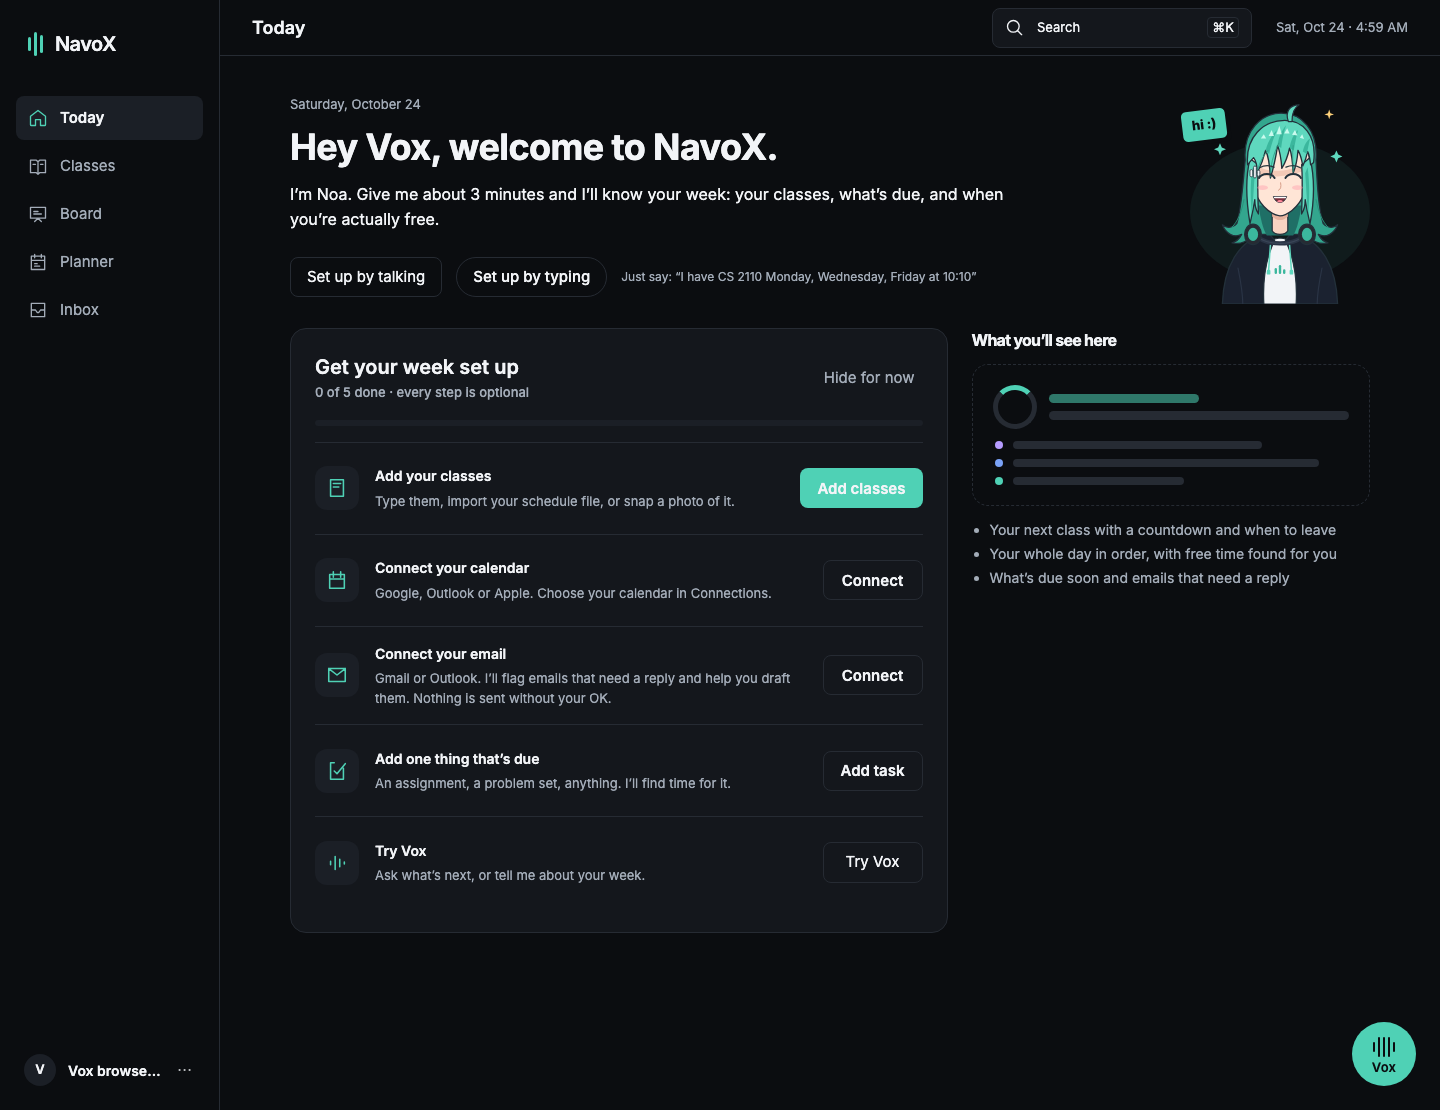
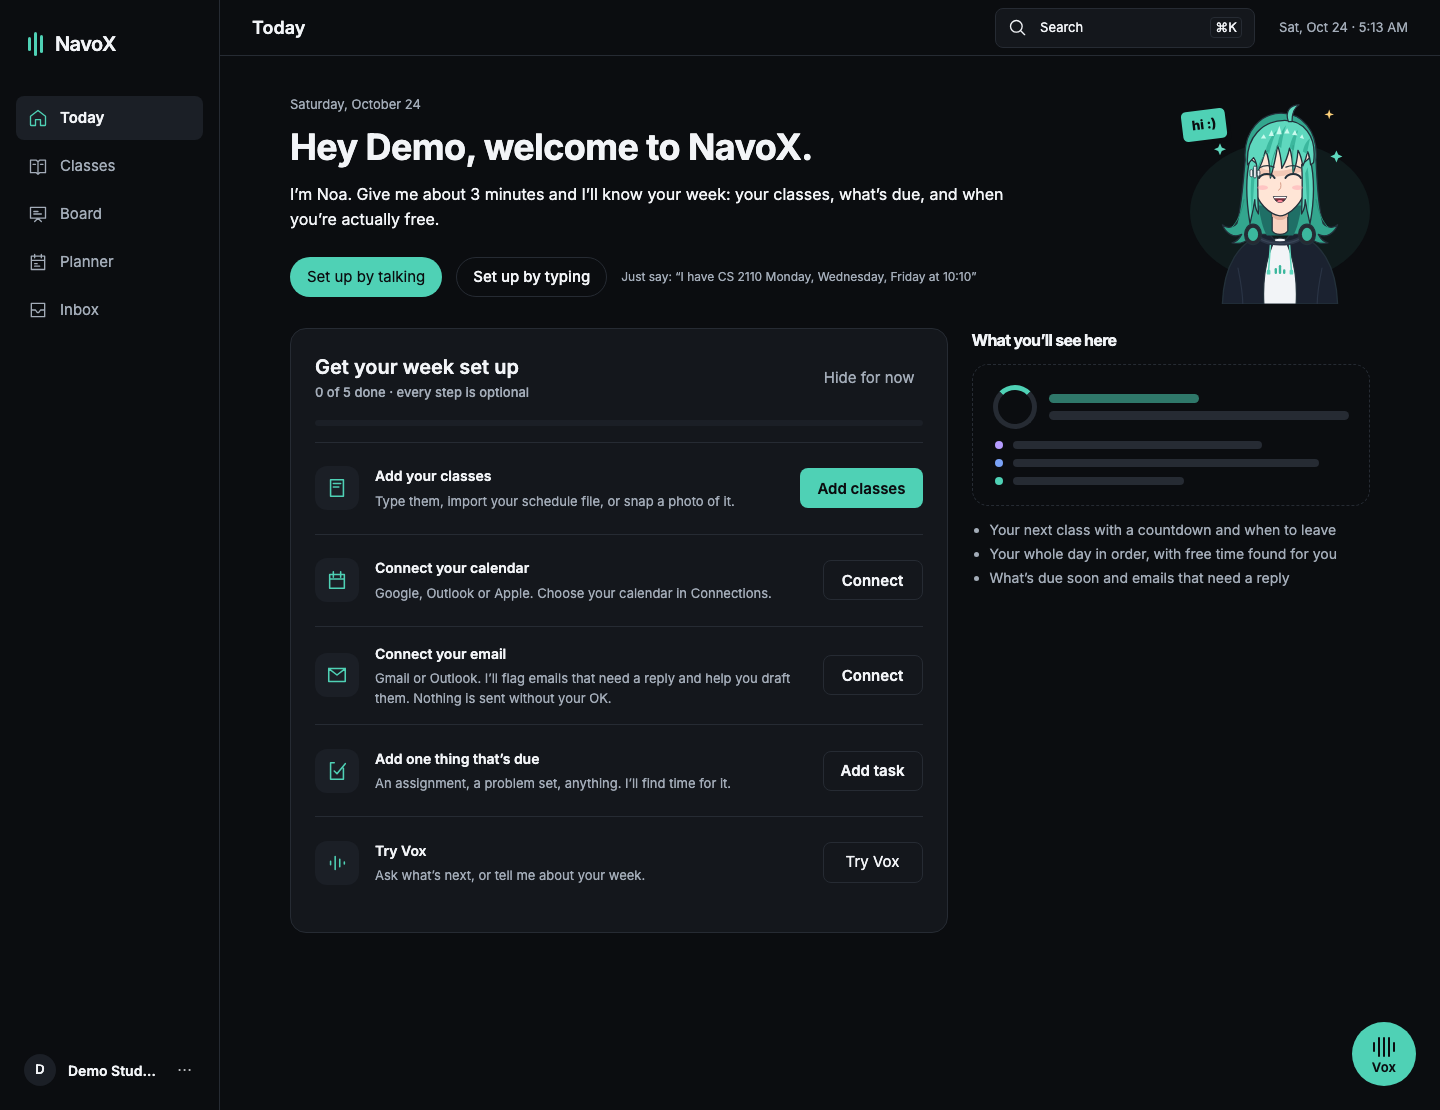
Align current-block actions and record redesign acceptance gaps

diff --git a/docs/product/evidence/m2-redesign/compare.html b/docs/product/evidence/m2-redesign/compare.html
@@ -1,0 +1,1 @@
+<!doctype html><html lang="en"><meta charset="utf-8"><meta name="viewport" content="width=device-width,initial-scale=1"><title>NavoX M2 reference review</title><style>body{background:#0b0d10;color:#f2f4f7;font:15px/1.5 system-ui;margin:24px}h1{font-size:24px}h2{font-size:18px}.pair{display:grid;grid-template-columns:1fr 1fr;gap:16px;align-items:start}figure{margin:0}figcaption{color:#a3acb8;margin-bottom:8px}img{width:100%;border:1px solid #262b33}p{max-width:900px}a{color:#4fd1b5}@media(max-width:700px){.pair{grid-template-columns:1fr}}</style><h1>NavoX Milestone 2 — reference review</h1><p>Source: the user’s 24 October 2026, 19-page redesign spec. These are progress comparisons, not final acceptance. Real persisted demo data differs from the illustrative names/times. The Today clock is controlled for the screenshot; physical-phone checks remain pending.</p><h2>First-time Today</h2><div class="pair"><figure><figcaption>Supplied reference, page 5</figcaption><img src="reference-welcome.png" alt="Supplied first-time Today reference"></figure><figure><figcaption>Test build, fresh private demo account</figcaption><img src="welcome-desktop-dark.png" alt="Implemented first-time Today"></figure></div><h2>Today with a saved schedule</h2><p>Still pending: best-free-window suggestions, Vox request chip, streak chip, complete late-night/alarm composition and all downstream workflows.</p><div class="pair"><figure><figcaption>Supplied reference, page 4</figcaption><img src="reference-today.png" alt="Supplied full Today reference"></figure><figure><figcaption>Test build, 9 AM New York, retained sample data</figcaption><img src="today-09am-desktop-dark.png" alt="Implemented Today at 9 AM New York"></figure></div><h2>Recorded call navigation</h2><p>375px mobile browser emulation, real rented voice provider, synthetic microphone. No audio track. Same call and conversation across Classes, Planner and Today; clean hangup. No login credentials were recorded.</p><video controls preload="metadata" style="max-width:375px;width:100%" src="vox-navigation-mobile-emulation.webm"></video></html>

diff --git a/apps/web/src/components/today-home.tsx b/apps/web/src/components/today-home.tsx
@@ -496,7 +496,8 @@ function TodayHomeAccount({
                                     : ""}
                             </span>
                           </Link>
-                          {row.study?.status === "planned" &&
+                          {current &&
+                            row.study?.status === "planned" &&
                             !data?.plan?.needs_review &&
                             (() => {
                               const block = row.study;

diff --git a/docs/product/m2-redesign-20261024.md b/docs/product/m2-redesign-20261024.md
@@ -18,7 +18,8 @@ approvals and usage accounting. Picovoice approval remains external.
 - [x] Use shared frontend date/clock/greeting helper; keep UTC storage internally.
 - [x] Update shell/account state after Settings/Classes timezone save without revoking Vox.
 - [x] Unit checks: NY 3 AM/noon/11 PM, West Coast, greeting boundaries, both DST transitions.
-- [ ] Live cross-page verification: header, Today, Classes, Planner, Inbox, Vox, notifications.
+- [x] Live cross-page timezone verification: header, Today, Classes, Planner, Inbox and Vox.
+- [ ] Live notification delivery verification (quiet-hour regression tests passed).
 - [ ] No student-facing UTC/server-time labels (Settings may name an explicitly selected zone).
 - [ ] Alarm and routine UI use this same saved timezone when added.
 Implementation: canonical User.timezone already feeds timetable, planning, Vox
@@ -37,8 +38,8 @@ not existing event instants. Browser-detected timezone is never passed off as sa
 - [ ] Desktop controls 40px, phone targets at least 44px; report spacing changes.
 - [ ] Sidebar 220px: logo, Today, Classes, Board, Planner, Inbox count;
       bottom name/school menu with Connections, Settings, Help, Sign out.
-- [ ] Header 56px: title, Search/Cmd-K, local date/time.
-- [ ] Persistent Vox 64px, Cmd/Ctrl-J, 112px bottom clearance across routes.
+- [x] Header 56px: title, Search/Cmd-K, local date/time.
+- [x] Persistent Vox 64px, Cmd/Ctrl-J, 112px bottom clearance across routes.
 - [ ] Under 768px: profile left, Inbox right; Today/Classes/raised Vox/Board/Planner bottom nav.
 Implementation: update shared UI tokens/shell before individual pages; preserve root call provider.
 
@@ -54,7 +55,7 @@ Implementation: update shared UI tokens/shell before individual pages; preserve 
 - [ ] First time: happy Noa, welcome, setup by talking or typing.
 - [ ] Five real completion steps: classes, calendar, email, one due item, try Vox;
       progress/icons/help/actions, green completion, Hide for now, preview column.
-- [ ] No empty-account “Done for today”.
+- [x] No empty-account “Done for today”.
 - [ ] 00:00–04:59: #05060A/lavender, sleepy Noa, Still up?, truthful remaining sleep,
       Set alarm/Wind down Vox, first class, approve/keep suggested move, due chips.
 - [ ] After 21:00: alarm/first-class card; approved early-exam alarm proposal.
@@ -131,8 +132,19 @@ never claim the browser can reliably ring while closed.
 - [ ] Retained, clearly synthetic QA account: classes/study/shift/tasks/two emails.
 - [ ] Today at 9 AM/3 PM/3 AM side-by-side with references.
 - [ ] Every normal/first-time page side-by-side; every page 375px and light theme.
-- [ ] Browser-emulation recording of Vox staying connected through navigation.
+- [x] Browser-emulation recording of Vox staying connected through navigation.
 - [ ] User physical-phone recording and acceptance (waiting on user testing).
 - [ ] New-account five-step flow verified from a fresh account.
 - [ ] Student tests/usage targets marked waiting on real usage, never passed prematurely.
 - [ ] Report any remaining spec difference; ask before building conflicting requirements.
+
+## Current implementation checkpoint
+Test release 8c90643: shared time, revised shell, original Noa illustration,
+five-step welcome, real next-up countdown/leave-by, timeline and deadline/goal
+presentation. Retained synthetic QA data has 3 recurring classes, 1 shift,
+3 tasks, accepted study blocks and 3 goals/check-ins. Two email fixtures remain
+pending; no fake email connection or external message was created.
+
+Evidence: evidence/m2-redesign/README.md and compare.html. The first-time visual
+is implemented; voice-driven class creation and all connection providers are
+not yet accepted. Full M2 is NOT done. No production/main merge.

diff --git a/docs/product/evidence/m2-redesign/README.md b/docs/product/evidence/m2-redesign/README.md
@@ -42,3 +42,19 @@ need side-by-side review against the 19-page source. See ../../m2-redesign-20261
 - Noa on Today is the supplied static vector illustration. No simulated talking
   animation was introduced. Vox's existing visual remains pending Part 2.
 - Physical-phone and real-student usage checks remain waiting on the user.
+
+## Populated Today — test release 8c90643
+- 2,531 web tests passed; touched-component follow-up tests, TypeScript and lint passed.
+- Retained QA fixture: three classes with walk times, a recurring shift, three
+  assignments and three weekly goals with synthetic check-ins. Study plan accepted
+  through the normal preview/confirm API; no external calendar writes.
+- Captured 9 AM, 3 PM and 3 AM New York on desktop and 375px dark/light. These use
+  real saved fixture data with an explicitly controlled client/server-display clock.
+  All three greetings were correct; no overflow or page errors.
+- The 3 AM image is an unfinished baseline: it does not yet match the alarm/night
+  design. Do not count it as passed.
+- A separate fresh private account verifies the welcome page and starts at 0/5.
+  Public test-site registration remains closed. Credentials stay in the private
+  backup folder, outside the repository and evidence.
+- Follow-up: show outcome actions on the current Today study block; other blocks
+  remain reachable in Planner, matching the specified compact timeline.

diff --git a/docs/product/vox-m2-shell-today.md b/docs/product/vox-m2-shell-today.md
@@ -1,3 +1,5 @@
+> Superseded where it conflicts with the 24 October redesign spec. M2 is not accepted. See `docs/product/m2-redesign-20261024.md` for the active checklist.
+
 # Milestone 2: app shell and Today
 
 Status: M2 implementation deployed to the test site and browser-verified.

diff --git a/docs/product/evidence/m2-shell-today/README.md b/docs/product/evidence/m2-shell-today/README.md
@@ -1,3 +1,5 @@
+> Superseded where it conflicts with the 24 October redesign spec. M2 is not accepted. See `docs/product/m2-redesign-20261024.md` for the active checklist.
+
 # M2 shell, Today and Vox conversation
 
 Test link: https://vox-test.66-175-235-169.nip.io/
